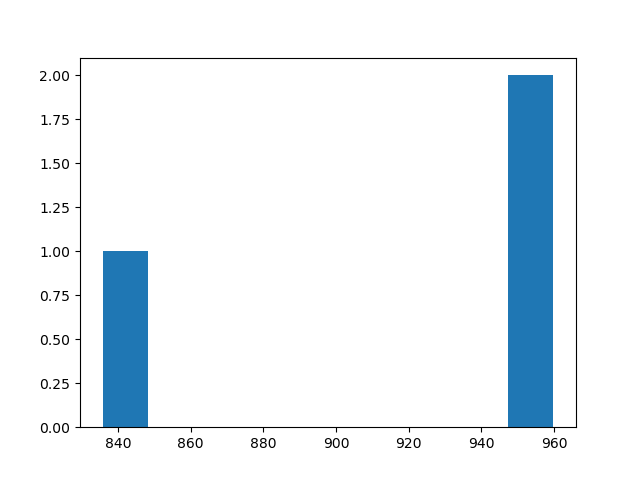
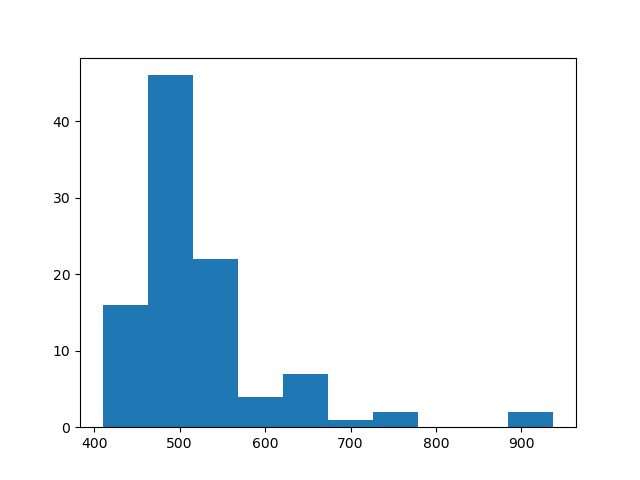
further proof of concept, steps = 100

diff --git a/MAUP.py b/MAUP.py
@@ -28,12 +28,12 @@ initial_partition = init_partition(la_graph)
 print("Initial partition initialized")
 ideal_pop = calc_population(la_graph, 6, "TOTPOP")
 print("Ideal population: ", ideal_pop)
-rand_walk = init_markov_chain(la_graph, initial_partition, "TOTPOP", ideal_pop, 3)  # 2000
+rand_walk = init_markov_chain(la_graph, initial_partition, "TOTPOP", ideal_pop, 100)  # 2000
 print("Markov Chain initialized")
 cutedge_ensemble = []
 lmaj_ensemble = []
 dem_win_ensemble = []
-cutedge_ensemble, lmaj_ensemble, dem_win_ensemble = walk_the_run(rand_walk, 6, cutedge_ensemble, lmaj_ensemble, dem_win_ensemble)
+cutedge_ensemble, lmaj_ensemble, dem_win_ensemble = walk_the_run(rand_walk, 6, "TOTPOP", cutedge_ensemble, lmaj_ensemble, dem_win_ensemble)
 
 # Histograms
 # 1. Cut edge
